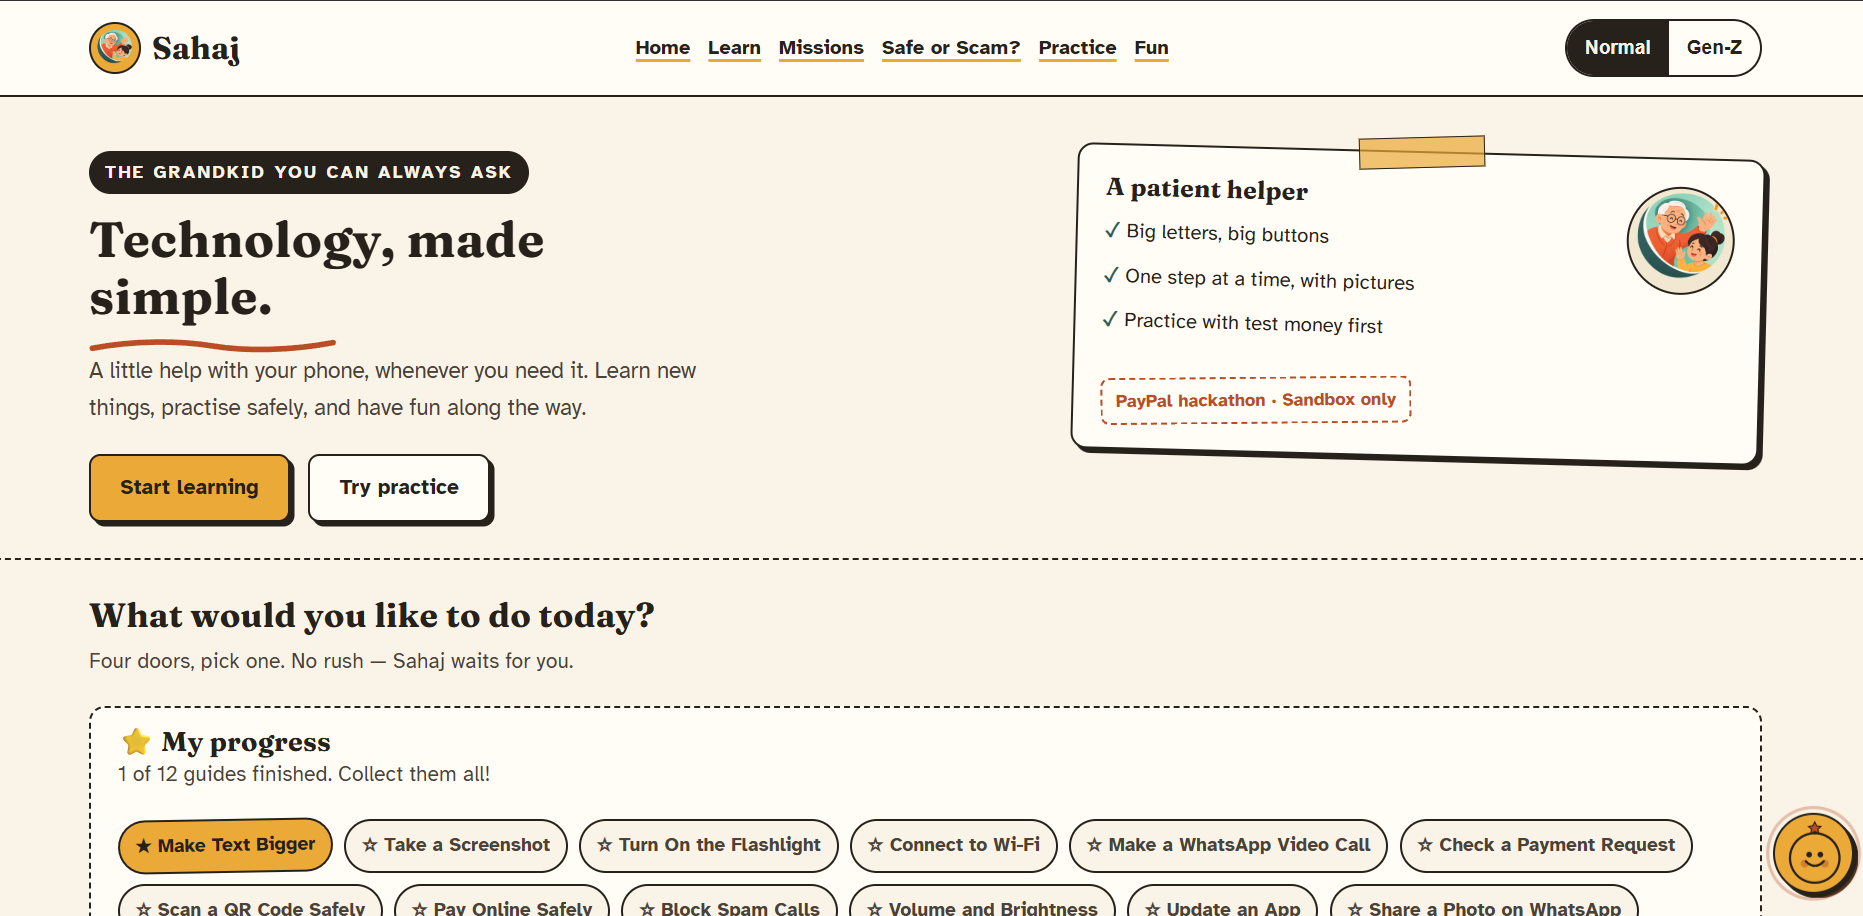
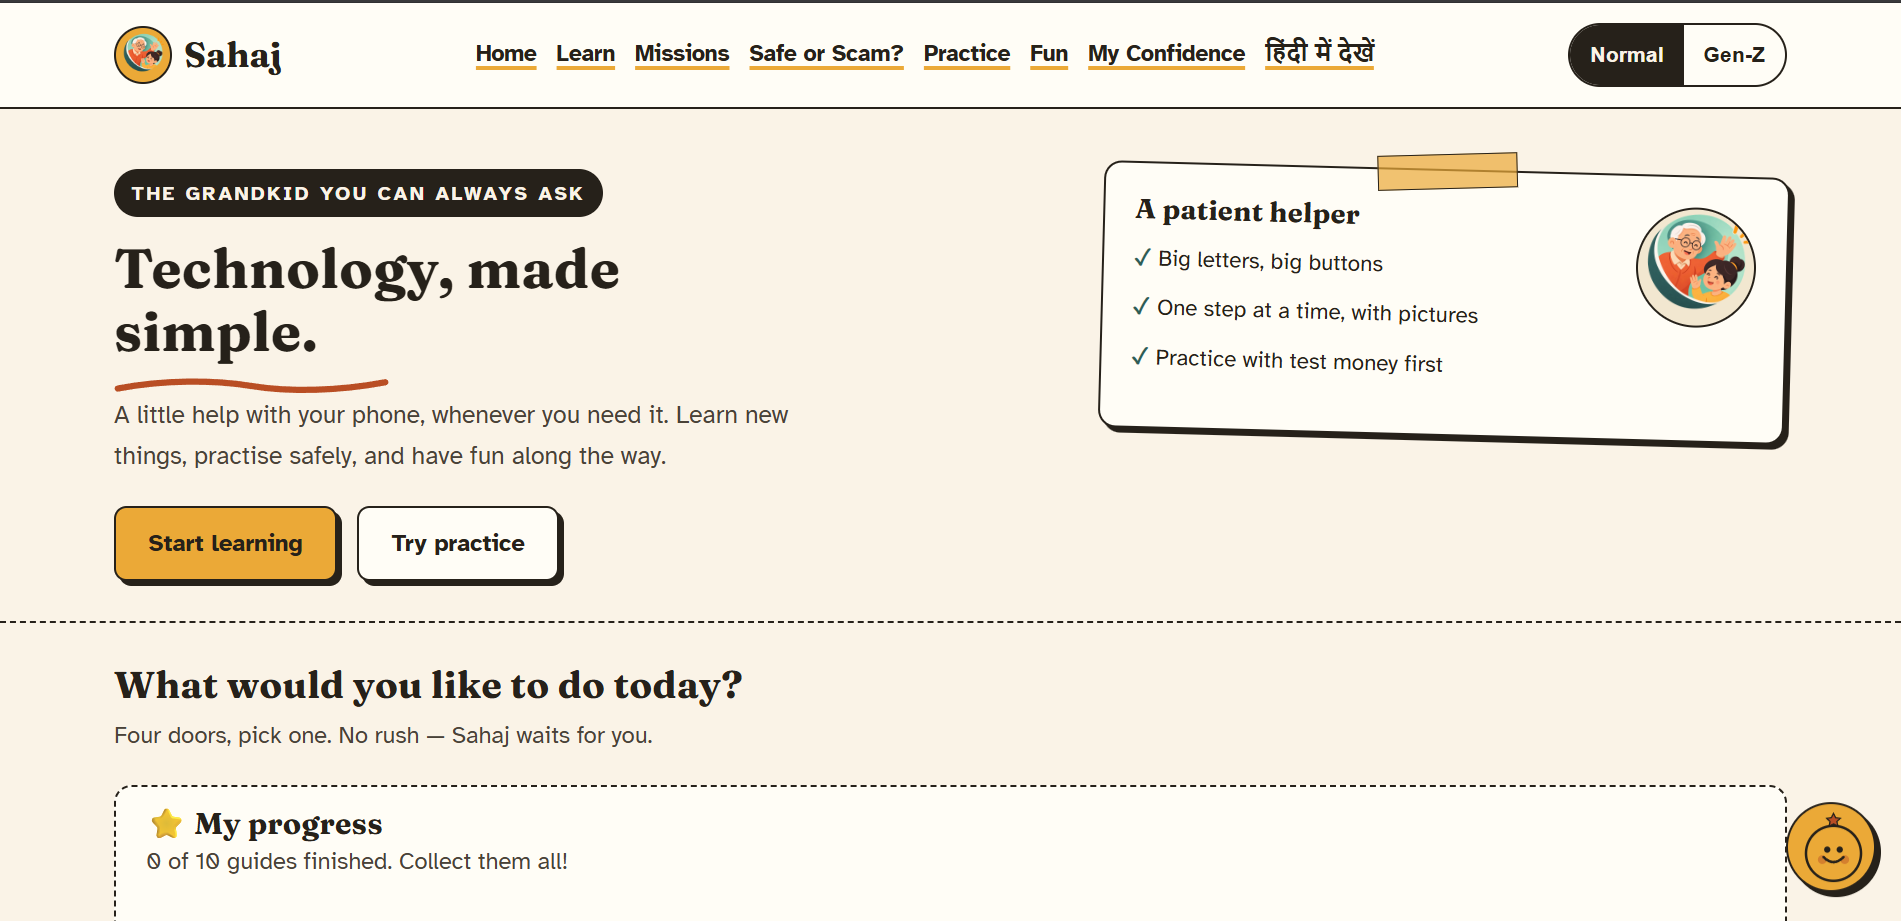
Updated the README.md file

diff --git a/README.md b/README.md
@@ -5,14 +5,12 @@
 
 Sahaj ("easy" in Hindi) is an AI tech buddy for older adults. It gives step-by-step phone and laptop help with pictures, and it is the safe first step into digital payments: users learn, pause and check, then practice a real **PayPal Sandbox** checkout with test money. It speaks like a friendly Gen Z grandkid, with a **Normal** mode for plain talk.
 
-Built for PayPal's **"Build What's Next with PayPal and AI"** hackathon.
-
 > **Practice Mode uses PayPal Sandbox test money.** No real money is charged or moved. Buyers sign in with a Sandbox test account, never a real PayPal account.
 
 ## Live demo
 
 - **App:** https://sahaj-iota.vercel.app
-- **API:** https://sahaj-b0ck.onrender.com 
+- **API:** https://sahaj-b0ck.onrender.com (Swagger docs at `/docs`)
 
 > The backend runs on Render's free plan and sleeps when idle. The first request can take up to a minute, so give the first page load a moment.
 
@@ -47,15 +45,44 @@ Paying online is where many older adults feel least confident, and scam messages
 | 3. **Practice Pay** | Real PayPal Sandbox checkout (create order, approve, capture) with test money | `/practice/payment/success` |
 | 4. **Prove it** | Animated *you → PayPal → seller* diagram, a plain-words receipt explanation, and a downloadable, shareable **Safe Payer certificate** | Success page and Home |
 
-The scam game, missions, photo help and Ask Sahaj all feed this loop.
+The scam game, missions, photo/screenshot help and Ask Sahaj all support the same learning loop.
 
 ## Features
 
 **Learn**
-- 12 guides across 6 device brands (iPhone, Samsung, Xiaomi, OPPO, Windows, MacBook).
+- 10 guides across 6 device brands (iPhone, Samsung, Xiaomi, OPPO, Windows, MacBook). Each brand gets only the guides that could be checked against an official support page.
+- Every guide block records its source links, the date it was last checked, and whether it was tested on a real device.
 - Steps are looked up by brand first, then by platform, so each brand can have its own pictures.
-- Read-aloud, a Gemini "Explain this step simply" button, per-step "Sahaj says" Gen Z notes, and "Ask family on WhatsApp" on every step.
+- Read-aloud, a Gemini "Explain this step simply" button, per-step "Sahaj says" Gen Z notes, and **Ask Family for Help** on every step.
 - Finishing a guide triggers a celebration screen and completes any linked mission.
+
+**Ask Family for Help**
+- Builds a short, friendly, editable WhatsApp message that names the current guide and step.
+- Opens the official `wa.me` click-to-chat link in a new tab. You choose the contact and press send yourself. Nothing is sent automatically.
+- An optional phone number is validated (10 to 15 digits) and kept only in memory, never saved.
+- Available on guide steps (English and Hindi), in the Ask Sahaj panel, and on screenshot help results.
+
+**Screenshot Help** (`/screenshot-help`)
+- This is the dedicated version of Show Sahaj, with a preview and follow-up controls.
+- Upload a PNG, JPG or WEBP (up to 4 MB), preview it, and send it only after pressing "Ask Sahaj". Browser screen capture is offered where supported.
+- Gemini returns a plain summary of the screen, one next action, where to tap, why, a confidence level, and a warning if the screen looks sensitive or suspicious.
+- If confidence is low, Sahaj asks a clarifying question instead of guessing. Sahaj only guides. It never claims to tap anything for you.
+- The image is not stored. The server limits requests per IP and masks long digit runs in the reply.
+- "Explain simpler", "Ask a follow-up", "Try another screenshot" and Ask Family for Help are available on the result.
+
+**My Digital Confidence** (`/confidence`)
+- Shows what you have actually done: guides finished, missions completed, Safe or Scam rounds, and the practice payment with Pause & Check. All counts come from real activity saved in the browser.
+- Suggests a next step only where there is a real gap, and links straight to it. A new user sees a friendly starting state, not made-up progress.
+
+**Scam help**
+- **Scam Emergency Mode** (`/scam-emergency`): immediate steps after a suspected scam — stop, protect your money, call 1930, report the fraud, and talk to someone you trust.
+- **Secure Bank** (`/secure-bank`): how to contact your bank safely, freeze cards or UPI access, and save the complaint reference number.
+- **Report Cyber Fraud** (`/report-cyber-fraud`): step-by-step help for filing a complaint on the official `cybercrime.gov.in` portal.
+- Hindi emergency help is at `/hindi/emergency`.
+
+**Hindi**
+- Home (`/hindi`), Learn (`/hindi/learn`), Missions (`/hindi/missions`), Safe or Scam (`/hindi/safe-or-scam`), Emergency (`/hindi/emergency`), Fun (`/hindi/fun`), and the Hindi Ask Sahaj buddy are available.
+
 
 **Safe or Scam?**
 - 16 shuffled scenarios shown as fake WhatsApp, SMS and UPI screens (5 genuine, 11 scams).
@@ -71,7 +98,7 @@ The scam game, missions, photo help and Ask Sahaj all feed this loop.
 - Questions pass through the safety checker first, and risky ones get a warning.
 
 **Missions and Fun**
-- 14 missions with a sticker collection, streak and "Today's mission".
+- 12 missions with a sticker collection, streak and "Today's mission".
 - Tech word of the day, Gen Z words with desi analogies, an emoji quiz, a group-chat decoder, and WhatsApp sharing.
 
 **Design**
@@ -90,7 +117,7 @@ flowchart LR
   P -->|return_url ?token=ORDER_ID| U
 ```
 
-**Tech stack:** FastAPI, Uvicorn, Pydantic, `google-genai`, `python-dotenv`, `httpx`, `python-multipart` on the backend. React 19, React Router 7, Vite 8 on the frontend. No UI library.
+**Tech stack:** FastAPI, Uvicorn, Pydantic, `google-genai`, `python-dotenv`, `httpx`, `python-multipart` on the backend. React 19, React Router 7, Vite 8 on the frontend. No UI library. Screenshot Help uses the browser Screen Capture API where available and a normal file upload everywhere else. No extra frontend packages were added.
 
 ### How the PayPal flow works
 1. The browser sends only an **item id**. Prices live on the server in `PRACTICE_ITEMS` (`practice-5` = $5.00, `chai-tip` = $1.00, `samosa-2` = $2.00).
@@ -102,8 +129,8 @@ flowchart LR
 | Real | Simulated or static |
 |---|---|
 | PayPal Sandbox order creation, approval and capture | The money is test money |
-| Gemini explanations, chat, photo help and decoding | Scam scenarios are written by hand with fake names and masked numbers |
-| Rule-based scam checker | Progress is browser-only (no accounts, no database) |
+| Gemini explanations, chat, photo help, screenshot help and decoding | Scam scenarios are written by hand with fake names and masked numbers |
+| Rule-based scam checker | Progress, streaks, confidence and Pay Pass are browser-only (no accounts, no database) |
 
 ## Run it locally
 
@@ -179,6 +206,7 @@ This fills each step's `image` field in `backend/content/guides.json` and saves 
 | POST | `/api/ask` | Ask Sahaj chat, with safety warning |
 | POST | `/api/safety/check` | Rule-based scam check |
 | POST | `/api/show-sahaj` | Photo help (multipart, never stored) |
+| POST | `/api/screenshot-help` | Screenshot analysis (PNG, JPG or WEBP up to 4 MB, never stored, rate limited) |
 | POST | `/api/decode` | Group-chat slang decoder |
 | GET | `/api/missions`, `/api/scam-quiz`, `/api/tips`, `/api/words`, `/api/genz`, `/api/emoji-quiz` | Content |
 | GET | `/api/paypal/items`, `/api/paypal/check` | Practice items, Sandbox connection check |
@@ -190,17 +218,24 @@ This fills each step's `image` field in `backend/content/guides.json` and saves 
 - Prices and secrets stay on the server. The browser only sends an item id.
 - Secrets come from environment variables only, and `.env` files are git-ignored.
 - CORS allows only `http://localhost:5173` and `FRONTEND_URL`.
-- Request inputs are validated and length-limited. Uploaded photos are type-, size- and content-checked, and are not stored or logged.
-- The server stores nothing. Progress, streaks and the Pay Pass live in the browser's `localStorage`.
+- Request inputs are validated and length-limited. Uploaded photos and screenshots are type-, size- and content-checked, and are not stored or logged.
+- The server stores nothing. Progress, streaks, the Pay Pass and My Digital Confidence live in the browser's `localStorage`.
+- Screenshots are sent to Gemini only after the user presses "Ask Sahaj", are not saved, and users are told to hide OTPs, PINs and bank details first.
+- Ask Family never stores a phone number and never sends a message for you.
 - AI prompts forbid asking for OTPs, PINs or passwords.
 
 ## Known limitations
 Honest list, so nothing here is oversold:
 
-- **Seven of the twelve guides** (payment request check, scan QR safely, pay online safely, block spam calls, volume and brightness, update an app, share a photo on WhatsApp) are marked `needs_checking`. They have no screenshots and are not brand-specific. The older guides mix `verified_official`, `community_sourced` and `needs_checking`.
+- **Guides were checked against official pages, not tested on every device.** Each is marked `verified_official`, but `tested_on_device` is `false` unless the steps were run on a real phone or laptop. Menu names can differ by model and software version. Screenshots exist only for Windows, MacBook and Samsung.
+- Some brands have gaps: there are no OPPO or Xiaomi flashlight guides and no MacBook Wi-Fi guide.
 - The scam checker is **English keyword-based**. Hindi or Hinglish scam text may score LOW, and the risk thresholds are arbitrary.
 - PayPal is **USD and Sandbox only**. There is no real-money path.
-- No authentication or rate limiting. This is a hackathon demo, not a production service.
+- No user accounts. The only rate limit is on Screenshot Help (6 requests per 10 minutes per IP), and it is in memory, so it resets when the server restarts.
+- Screenshot Help depends on Gemini returning valid JSON. If it fails, the app shows an error and asks you to retry.
+- Progress is stored in the browser only, so it does not follow a user to another device. Safe or Scam history in My Digital Confidence starts from when that feature was added.
+- My Digital Confidence and Screenshot Help are English only for now. Hindi pages do not link to them yet.
+- Browser screen capture is optional. Where it is unsupported, upload still works. Very large displays can produce captures above the 4 MB limit.
 - The certificate PNG falls back to system fonts, because web fonts do not embed in the canvas export.
 - The scam helpline details shown at the end of the game (**1930** and **cybercrime.gov.in**) should be re-verified before any real-world use.
 - Sahaj is a learning aid. It does not prevent fraud and is not financial advice.
@@ -213,7 +248,10 @@ backend/
   link_guide_images.py
 frontend/frontend/
   src/            App.jsx, Learn, SafeOrScam, ScamGame, ScamChecker, Missions,
-                  Fun, PauseCheck, ShowSahaj, PayPass, FloatingAsk, Mascot, copy
+                  Fun, PauseCheck, ShowSahaj, ScreenshotHelp, Confidence,
+                  AskFamilyHelp, PayPass, FloatingAsk, ScamEmergency,
+                  SecureBank, ReportCyberFraud, Mascot, copy, scamRounds,
+                  hindi/
   public/         guides/ (step images), logo/
   vercel.json     SPA rewrite for deployment
 ```
@@ -232,6 +270,20 @@ This project runs as two services:
   - Environment: `VITE_API_URL` set to the Render URL (no trailing slash). It is read at build time, so redeploy the frontend after changing it.
 
 `FRONTEND_URL` controls both CORS and PayPal's return and cancel URLs, so it must match the deployed frontend exactly. Vercel preview URLs are not allowed by CORS; use the production URL.
+
+## Try the practice payment
+Open the live app, tap Try a practice payment, tick the Pause & Check boxes, and pay with a PayPal Sandbox test buyer account. No real account or money is involved.
+
+Sandbox buyer email: sb-7ofl553774350@personal.example.com
+Sandbox buyer password: g9oYPk3=
+
+(These are Sandbox-only test credentials and cannot access any real PayPal account.)
+
+## AI and tools used
+- **Google Gemini (`gemini-2.5-flash`)**: explains guide steps in plain words, answers Ask Sahaj questions, reads screenshots and photos, decodes group-chat slang, and explains receipts. Without a key, every AI feature falls back to a short static message.
+- **PayPal Sandbox (Orders v2)**: create, approve and capture for the practice payment.
+- **Rule-based checker**: the scam message rating uses fixed rules, not AI.
+- **AI coding assistants** were used while building. All AI output was reviewed and tested by hand.
 
 ## Credits
 Built with FastAPI, React, PayPal Sandbox and Google Gemini.
